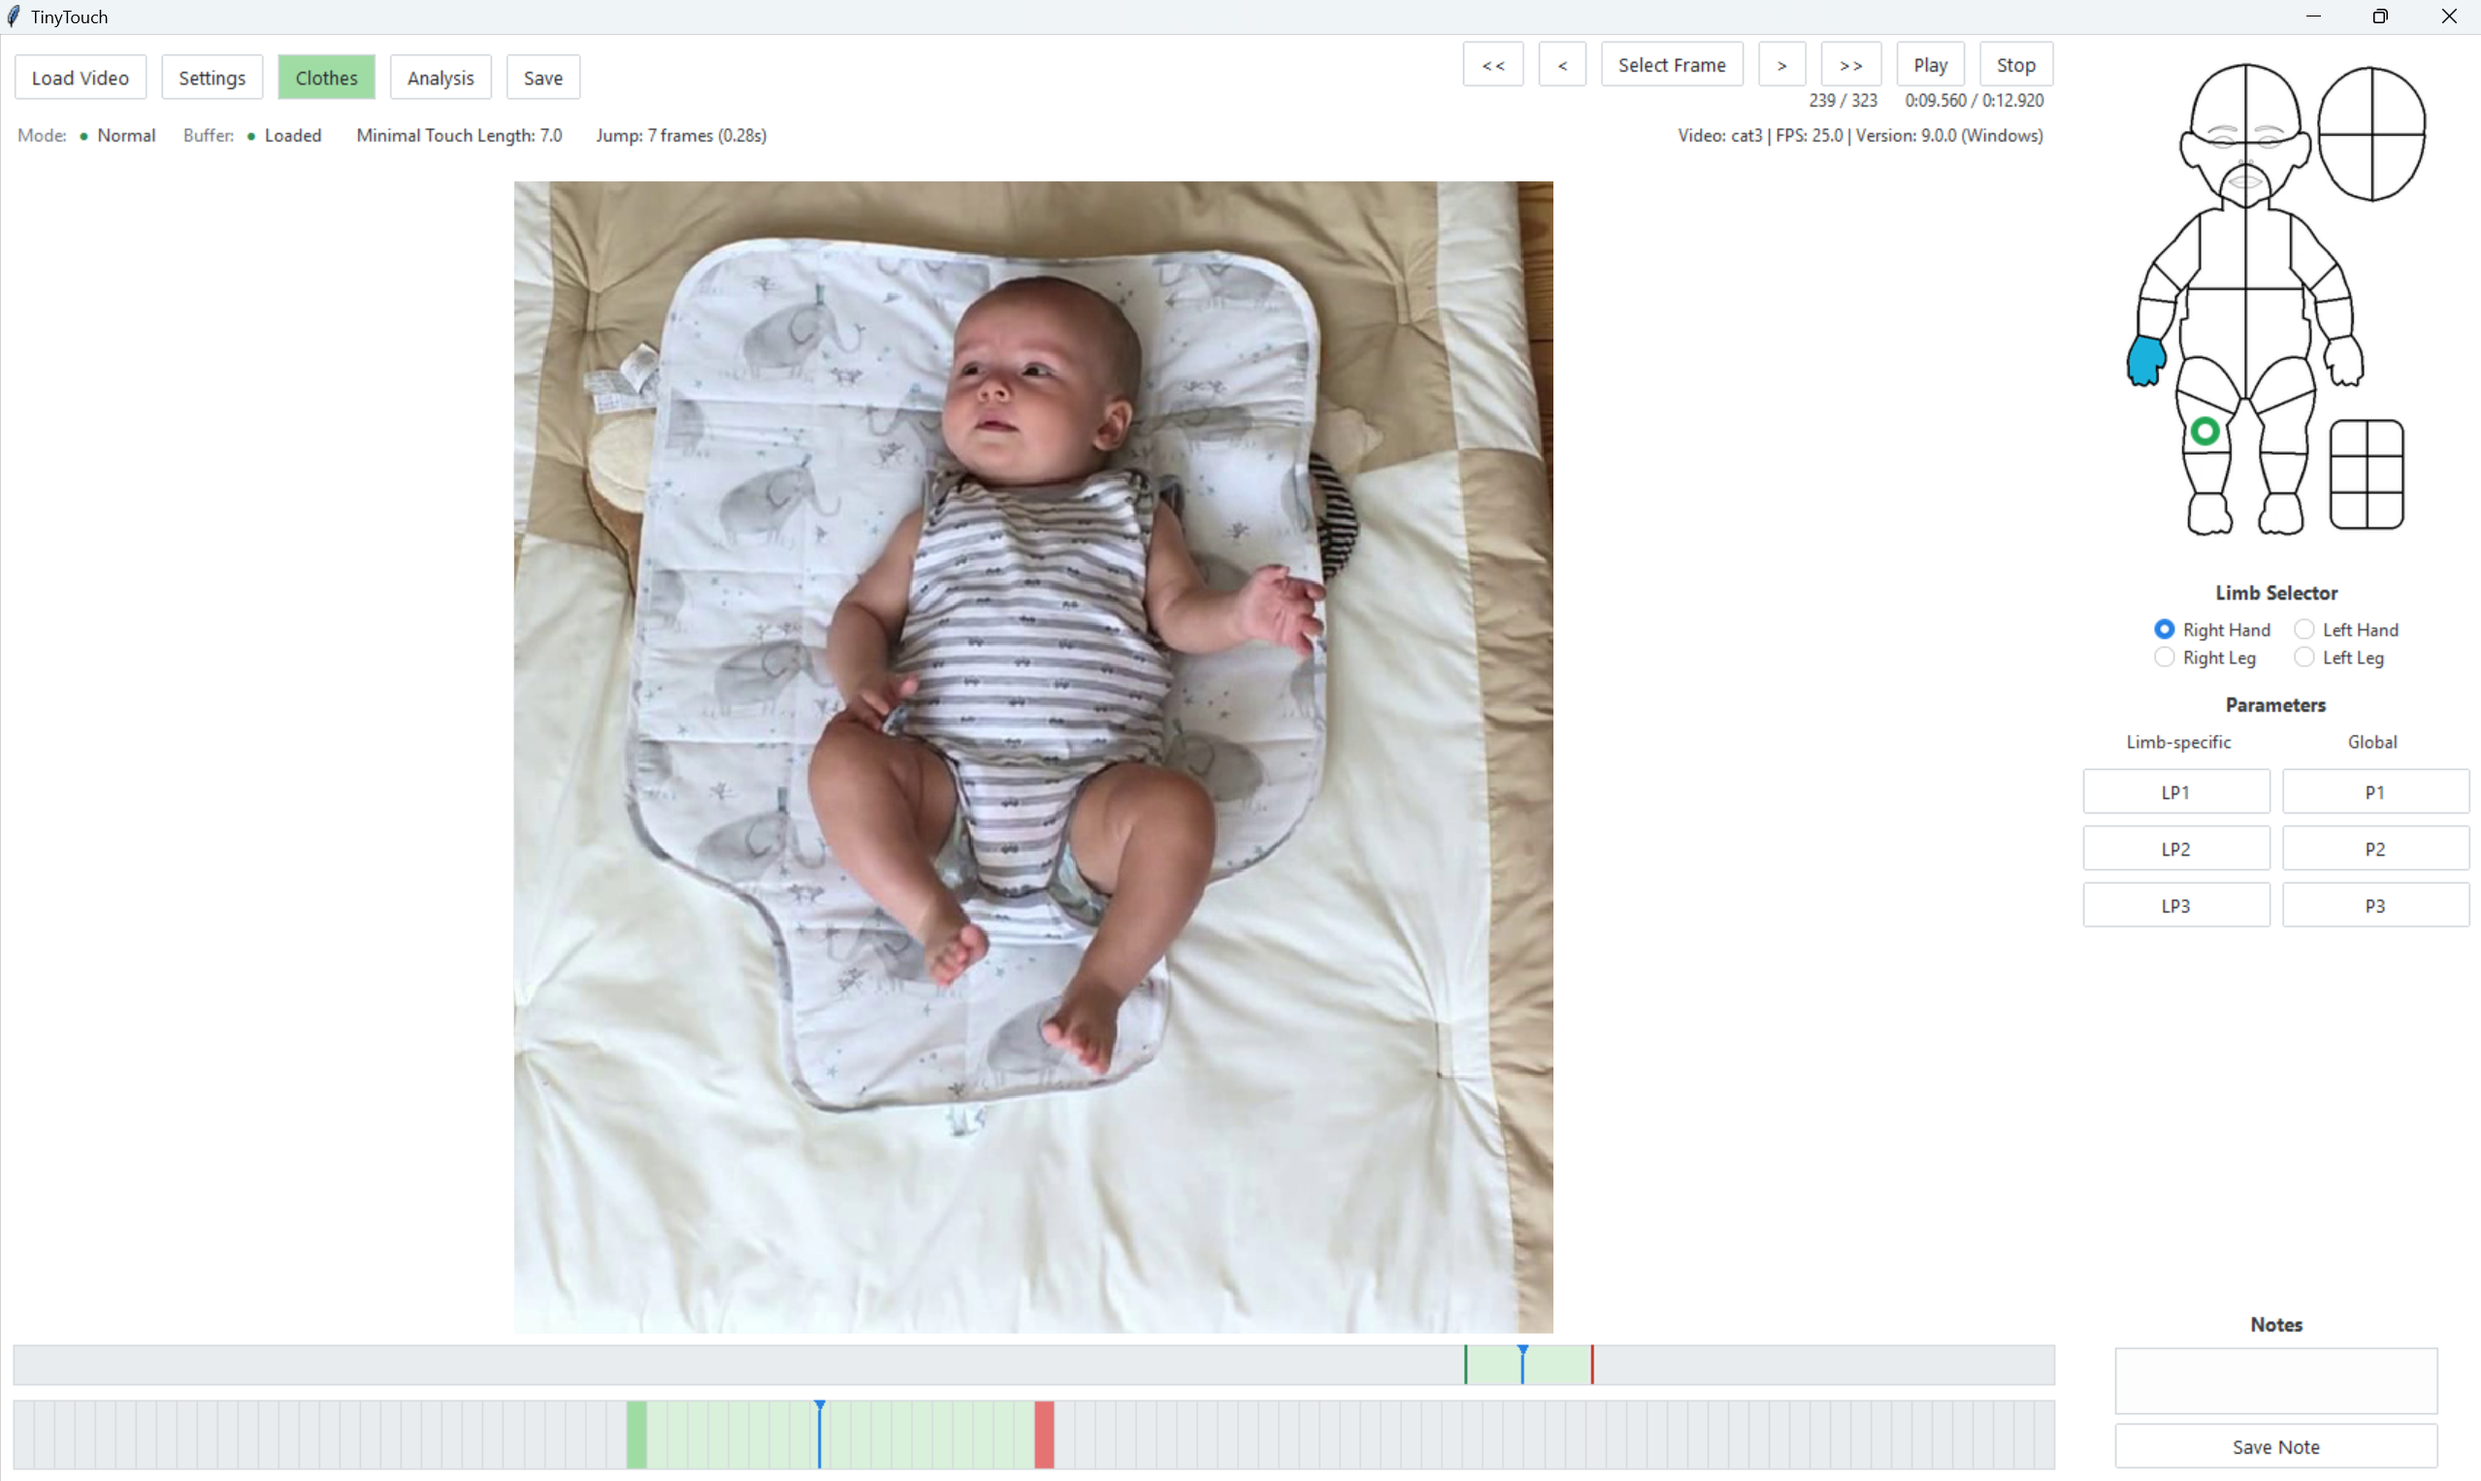
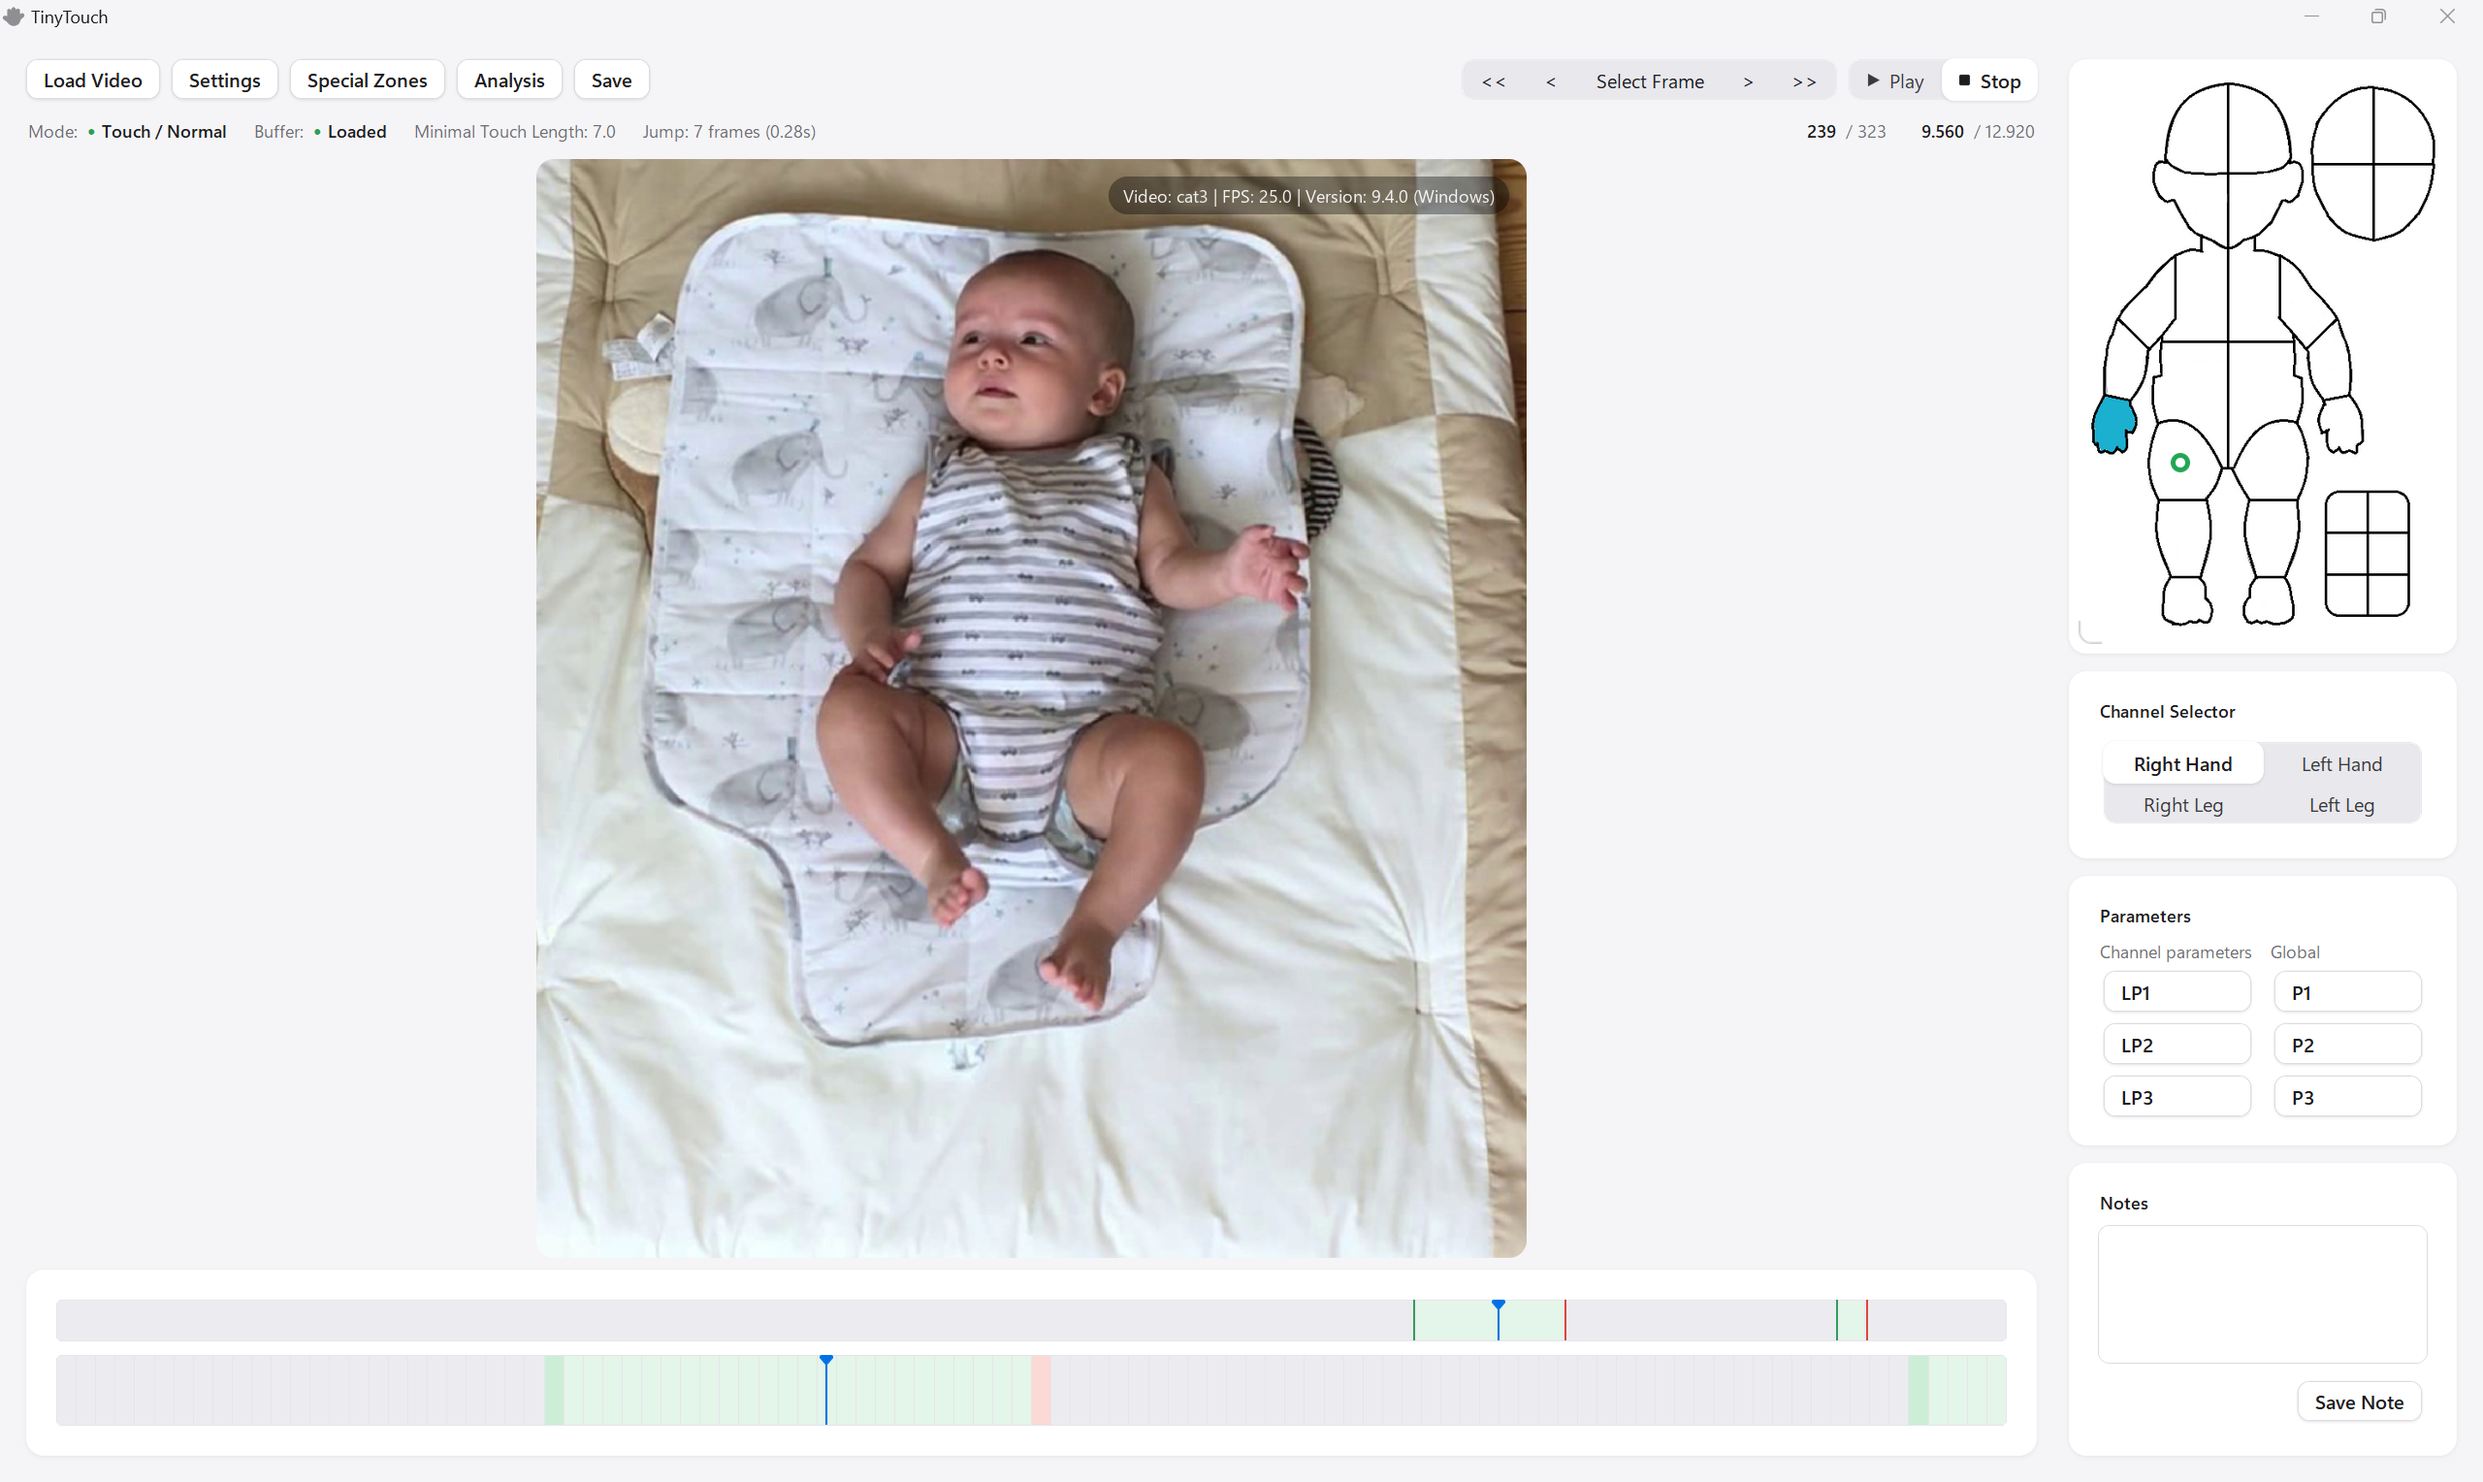
Update README screenshot and text to the 9.4.0 UI

diff --git a/README.md b/README.md
@@ -6,6 +6,10 @@ events and observations.
 
 ![TinyTouch main window](assets/readme_images/showcase.png)
 
+The main window in Touch mode (9.4.0): the video with its two timelines on the
+left; the body diagram, Channel Selector, Parameters and Notes on the right. The
+green ring on the diagram shows where the selected channel's current touch
+started; the timelines shade that touch green from its start to its end.
 
 
 ## New in 9.4.0
@@ -89,7 +93,8 @@ chmod +x TinyTouch-v9.4.0
    A red dot marks the end.
 6. Use the global or channel-specific parameter buttons to label additional
    observations as **ON** or **OFF**.
-7. Add text notes to individual frames as needed.
+7. Add text notes to individual frames as needed: type in **Notes** and click
+   **Save Note**.
 
 | Control | Action |
 | --- | --- |
@@ -129,6 +134,8 @@ Appearance, playback preferences, and annotations remain editable.
 | Dot size | Changes the size of the marks on the diagram. |
 | Fast-jump seconds | Sets how far **<< / >>** and **Shift + arrow** jump. |
 | Hold arrows to play | Steps once on key-down, starts playback after a 150 ms hold, and stops on release. Targets the video's frame rate without skipping frames; slower rendering slows playback. Disable for keyboard-repeat stepping. **< / >** always step one frame. |
+| Highlight the zone under the pointer | Tints the zone under the mouse on the diagram and shows its name, so you see which zone a click will record. Visual only. |
+| Show zone names on diagrams | Draws each zone's name on the body diagram. |
 | Coding setup | Shows the prepared project's fixed diagram and naming configuration. Set these names in the new-video wizard. |
 
 Newly generated video frames fit within **1920 × 1080**, preserving aspect ratio
